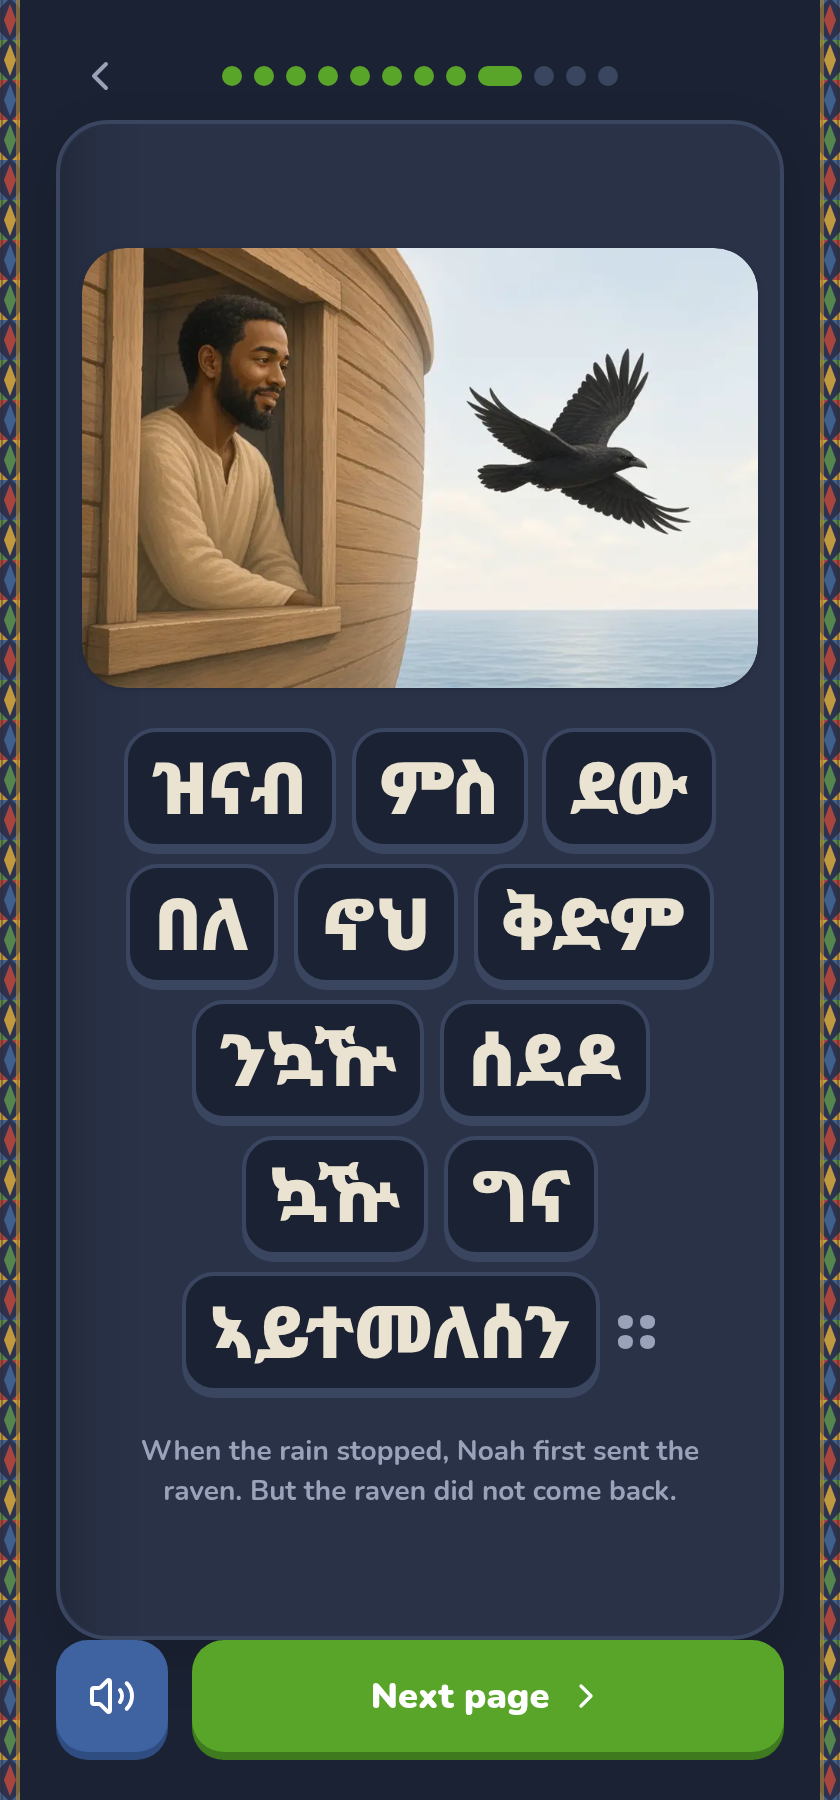
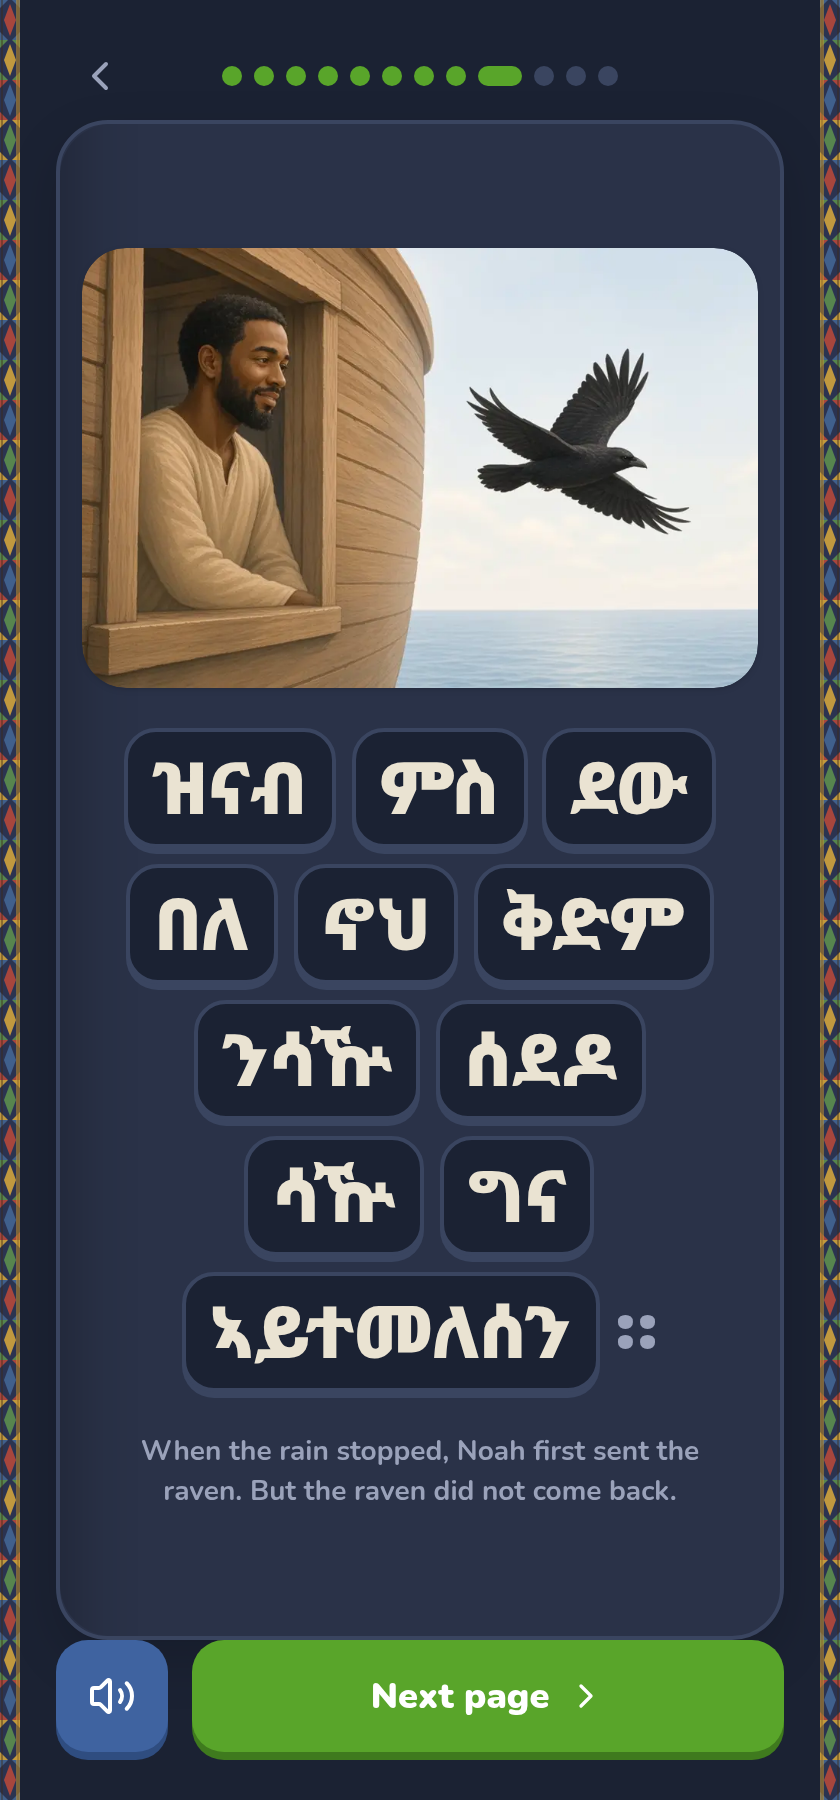
Spell the raven ሳዅ.
Yosief's spelling replaces ኳዅ on the raven page and in the notes.

diff --git a/src/data/bibleStories.test.js b/src/data/bibleStories.test.js
@@ -141,7 +141,7 @@ describe('noah bible book', () => {
       'እንስሳታት ከኣ ክልተ ክልተ ምስኦም ኣተዉ።',
       'እግዚኣብሄር ናይታ መርከብ ማዕጾ ዓፀዎ። ሽዑ ዝናብ መጸ።',
       'ማይ ነታ ምድሪ ሸፈነ። እታ መርከብ ግና ኣብ ልዕሊኡ ሰላም ነበረት።',
-      'ዝናብ ምስ ደው በለ፡ ኖህ ቅድም ንኳዅ ሰደዶ። ኳዅ ግና ኣይተመለሰን።',
+      'ዝናብ ምስ ደው በለ፡ ኖህ ቅድም ንሳዅ ሰደዶ። ሳዅ ግና ኣይተመለሰን።',
       'ድሕሪኡ ንርግቢ ሰደዳ። ርግቢ ቘፅሊ ኣውሊዕ ሒዛ ናብ ኖህ ተመለሰት።',
       'ኖህን ስድራቤቱን ናብ ንቑጽ ምድሪ ወፁ።',
       'እግዚኣብሄር ቀስቲ ኣብ ሰማይ ኣንበረ። እዚ ኪዳን እዩ።',
@@ -170,7 +170,8 @@ describe('noah bible book', () => {
     expect(blob.includes('ፃድቕ')).toBe(true)
     expect(blob.includes('ኪዳን')).toBe(true)
     expect(book.pages.length).toBe(12)
-    expect(blob.includes('ኳዅ')).toBe(true)
+    expect(blob.includes('ሳዅ')).toBe(true)
+    expect(blob.includes('ኳዅ')).toBe(false)
     expect(blob.includes('ቑራዕ')).toBe(false)
     expect(blob.includes('ንቑጽ')).toBe(true)
     expect(blob.includes('ነቒጣ')).toBe(false)

diff --git a/src/data/bibleStories.js b/src/data/bibleStories.js
@@ -14,8 +14,8 @@
 
    ORTHOGRAPHY: ትመ15 spells God እግዚኣብሄር with ሄ, not ሔ, and spells Noah
    ኖህ (ህ, not ሕ). Righteous is ፃድቕ. The ark is መርከብ. God commanded
-   ኣዘዞ. He shut it ዓፀዎ. They went out ወፁ. Genesis 8:7 spells the raven
-   ኳዅ and sends him ሰደዶ. The dove is ርግቢ; he sent her ሰደዳ; she returned
+   ኣዘዞ. He shut it ዓፀዎ. They went out ወፁ. The raven is ሳዅ, sent
+   ሰደዶ. The dove is ርግቢ; he sent her ሰደዳ; she returned
    ተመለሰት holding ቘፅሊ ኣውሊዕ. Dry land is ንቑጽ. The bow is ቀስቲ.
    The promise is ኪዳን (Genesis 9 ኪዳነይ). Rain keeps the pack word ዝናብ;
    ትመ15 writes ዝናም. Creation's "good" stays ጽቡቕ.

diff --git a/docs/school-path.md b/docs/school-path.md
@@ -133,8 +133,8 @@ built it and went in. The animals went in two by two. God shut the
 door and the rain came. The water covered the land, and the ark was
 safe. Noah sent the raven, then the dove came back with an olive leaf.
 They went out onto dry land, and God set a rainbow as his promise.
-ትመ15 spells Noah `ኖህ`, the ark `መርከብ`, righteous `ፃድቕ`, the raven
-`ኳዅ`, and the promise `ኪዳን`. The book is not
+ትመ15 spells Noah `ኖህ`, the ark `መርከብ`, righteous `ፃድቕ`, and the
+promise `ኪዳን`. The raven is `ሳዅ`. The book is not
 free. It uses the ordinary band-1 progress gate and does not change the
 Creation unlock or the School Path unlocks.
 
